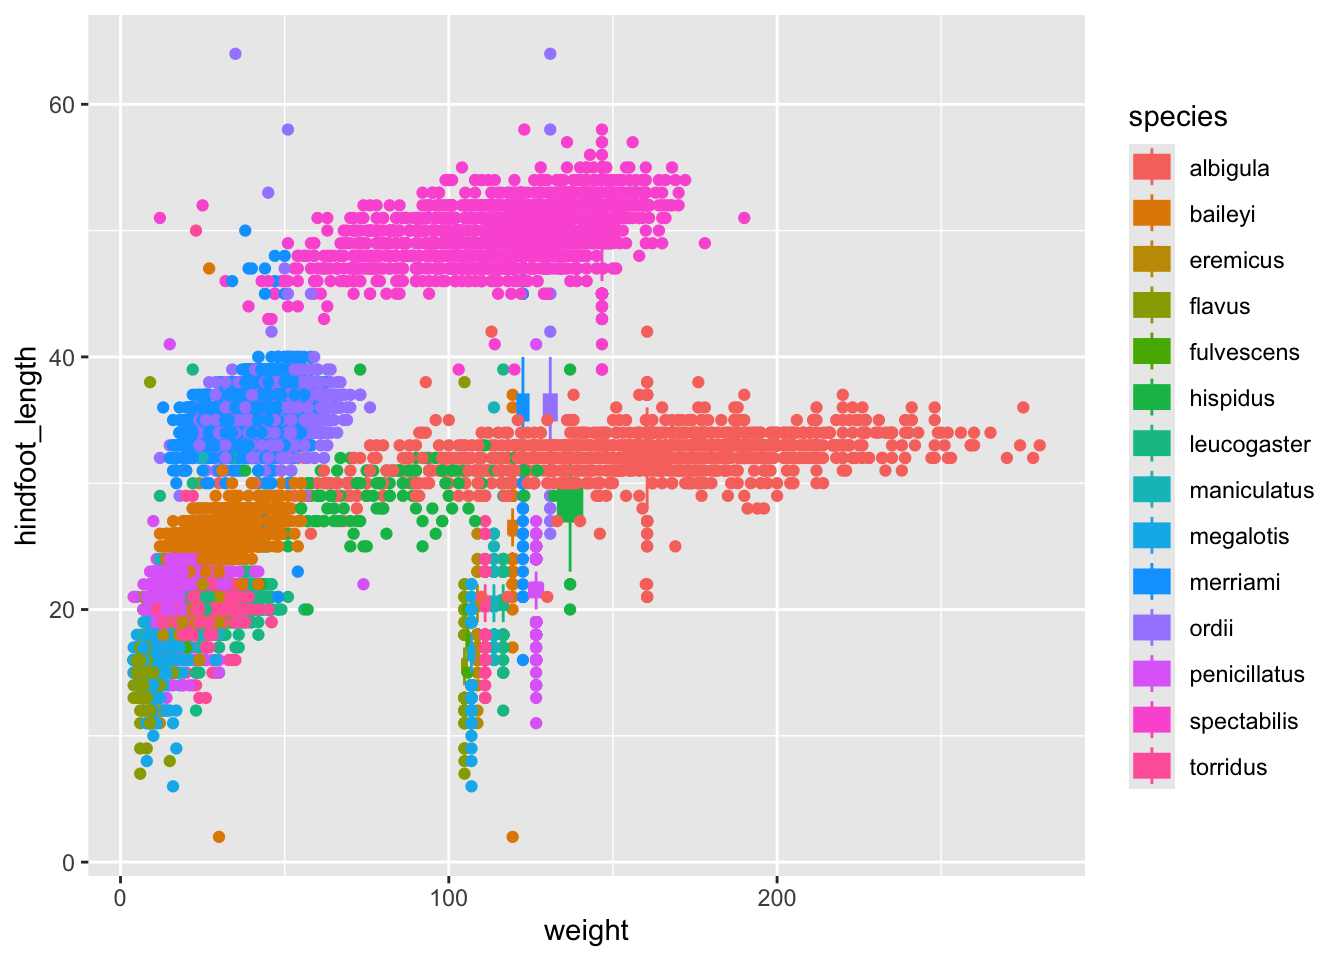
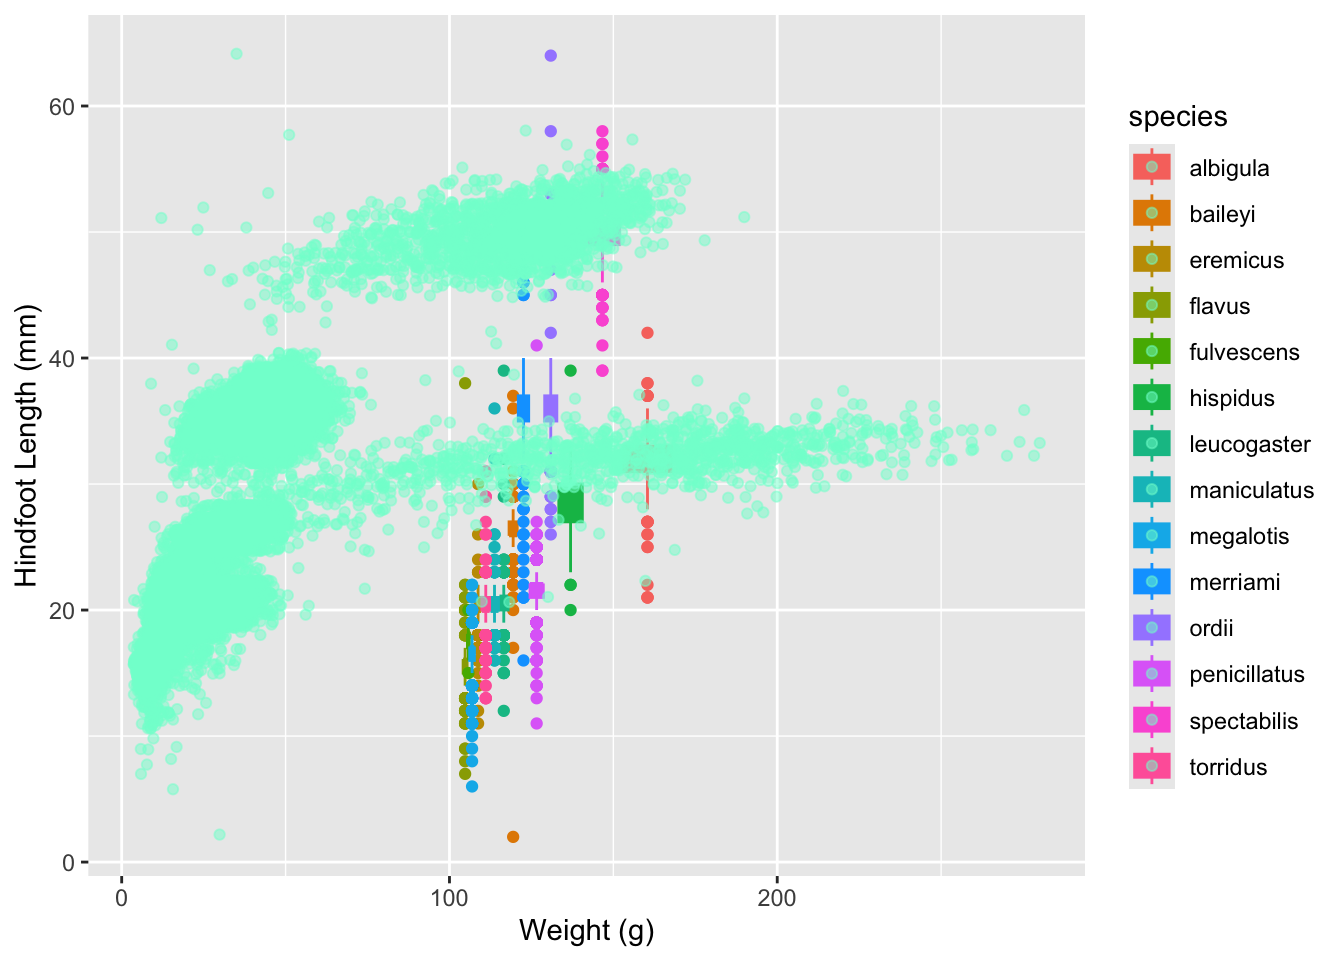
final render

diff --git a/QuinteroE_Lab3.html b/QuinteroE_Lab3.html
@@ -327,7 +327,7 @@ $ taxa            &lt;chr&gt; "Rodent", "Rodent", "Rodent", "Rodent", "Rodent", 
 <span id="cb8-4"><a href="#cb8-4" aria-hidden="true" tabindex="-1"></a>                     <span class="at">color =</span> species, </span>
 <span id="cb8-5"><a href="#cb8-5" aria-hidden="true" tabindex="-1"></a>                     <span class="at">fill =</span> species)) <span class="sc">+</span></span>
 <span id="cb8-6"><a href="#cb8-6" aria-hidden="true" tabindex="-1"></a>  </span>
-<span id="cb8-7"><a href="#cb8-7" aria-hidden="true" tabindex="-1"></a>  <span class="fu">geom_point</span>(<span class="at">alpha =</span> <span class="dv">10</span>) <span class="sc">+</span></span>
+<span id="cb8-7"><a href="#cb8-7" aria-hidden="true" tabindex="-1"></a>  <span class="fu">geom_point</span>(<span class="at">alpha =</span> <span class="dv">10</span>) <span class="sc">+</span> <span class="co">#creates scatterplot</span></span>
 <span id="cb8-8"><a href="#cb8-8" aria-hidden="true" tabindex="-1"></a>  </span>
 <span id="cb8-9"><a href="#cb8-9" aria-hidden="true" tabindex="-1"></a>  <span class="fu">labs</span>(</span>
 <span id="cb8-10"><a href="#cb8-10" aria-hidden="true" tabindex="-1"></a>    <span class="at">title =</span> <span class="st">"Weight and Hindfoot Length Among Rodent Species"</span>,</span>
@@ -365,8 +365,13 @@ $ taxa            &lt;chr&gt; "Rodent", "Rodent", "Rodent", "Rodent", "Rodent", 
 <span id="cb9-4"><a href="#cb9-4" aria-hidden="true" tabindex="-1"></a>                     <span class="at">color =</span> species, </span>
 <span id="cb9-5"><a href="#cb9-5" aria-hidden="true" tabindex="-1"></a>                     <span class="at">fill =</span> species)) <span class="sc">+</span></span>
 <span id="cb9-6"><a href="#cb9-6" aria-hidden="true" tabindex="-1"></a>  </span>
-<span id="cb9-7"><a href="#cb9-7" aria-hidden="true" tabindex="-1"></a>  <span class="fu">geom_boxplot</span>(<span class="at">alpha =</span> <span class="dv">10</span>) <span class="sc">+</span></span>
-<span id="cb9-8"><a href="#cb9-8" aria-hidden="true" tabindex="-1"></a>  <span class="fu">geom_point</span>()</span></code><button title="Copy to Clipboard" class="code-copy-button"><i class="bi"></i></button></pre></div>
+<span id="cb9-7"><a href="#cb9-7" aria-hidden="true" tabindex="-1"></a>  <span class="fu">geom_boxplot</span>() <span class="sc">+</span> <span class="co"># creates boxplot</span></span>
+<span id="cb9-8"><a href="#cb9-8" aria-hidden="true" tabindex="-1"></a>  <span class="fu">geom_jitter</span>(<span class="at">color =</span> <span class="st">"aquamarine"</span>,</span>
+<span id="cb9-9"><a href="#cb9-9" aria-hidden="true" tabindex="-1"></a>              <span class="at">alpha =</span> <span class="fl">0.5</span>) <span class="sc">+</span></span>
+<span id="cb9-10"><a href="#cb9-10" aria-hidden="true" tabindex="-1"></a>  <span class="fu">labs</span>(</span>
+<span id="cb9-11"><a href="#cb9-11" aria-hidden="true" tabindex="-1"></a>    <span class="at">x =</span> <span class="st">"Weight (g)"</span>,</span>
+<span id="cb9-12"><a href="#cb9-12" aria-hidden="true" tabindex="-1"></a>    <span class="at">y =</span> <span class="st">"Hindfoot Length (mm)"</span></span>
+<span id="cb9-13"><a href="#cb9-13" aria-hidden="true" tabindex="-1"></a>    )</span></code><button title="Copy to Clipboard" class="code-copy-button"><i class="bi"></i></button></pre></div>
 <div class="cell-output-display">
 <div>
 <figure class="figure">
@@ -393,6 +398,29 @@ $ taxa            &lt;chr&gt; "Rodent", "Rodent", "Rodent", "Rodent", "Rodent", 
 <!-- Continue to modify the plot you made for question 10! -->
 <p>Some people (and journals) prefer for boxplots to be stacked with a specific orientation! Let’s practice changing the orientation of our boxplots.</p>
 <p><strong>15. Now copy-paste your boxplot code you’ve been adding to above. Flip the orientation of your boxplots. If you created horizontally stacked boxplots, your boxplots should now be stacked vertically. If you had vertically stacked boxplots, you should now stack your boxplots horizontally!</strong></p>
+<div class="cell">
+<div class="sourceCode cell-code" id="cb10"><pre class="sourceCode r code-with-copy"><code class="sourceCode r"><span id="cb10-1"><a href="#cb10-1" aria-hidden="true" tabindex="-1"></a><span class="fu">ggplot</span>(<span class="at">data =</span> surveys,</span>
+<span id="cb10-2"><a href="#cb10-2" aria-hidden="true" tabindex="-1"></a>       <span class="at">mapping =</span> <span class="fu">aes</span>(<span class="at">x =</span> weight, </span>
+<span id="cb10-3"><a href="#cb10-3" aria-hidden="true" tabindex="-1"></a>                     <span class="at">y =</span> hindfoot_length, </span>
+<span id="cb10-4"><a href="#cb10-4" aria-hidden="true" tabindex="-1"></a>                     <span class="at">color =</span> species, </span>
+<span id="cb10-5"><a href="#cb10-5" aria-hidden="true" tabindex="-1"></a>                     <span class="at">fill =</span> species)) <span class="sc">+</span></span>
+<span id="cb10-6"><a href="#cb10-6" aria-hidden="true" tabindex="-1"></a>  </span>
+<span id="cb10-7"><a href="#cb10-7" aria-hidden="true" tabindex="-1"></a>  <span class="fu">geom_boxplot</span>() <span class="sc">+</span> <span class="co"># creates boxplot</span></span>
+<span id="cb10-8"><a href="#cb10-8" aria-hidden="true" tabindex="-1"></a>  <span class="fu">geom_jitter</span>(<span class="at">color =</span> <span class="st">"aquamarine"</span>, <span class="co"># adds noise to variable point</span></span>
+<span id="cb10-9"><a href="#cb10-9" aria-hidden="true" tabindex="-1"></a>              <span class="at">alpha =</span> <span class="fl">0.5</span>) <span class="sc">+</span></span>
+<span id="cb10-10"><a href="#cb10-10" aria-hidden="true" tabindex="-1"></a>  <span class="fu">coord_flip</span>() <span class="sc">+</span> <span class="co"># flips x and y coordinates</span></span>
+<span id="cb10-11"><a href="#cb10-11" aria-hidden="true" tabindex="-1"></a>  <span class="fu">labs</span>(</span>
+<span id="cb10-12"><a href="#cb10-12" aria-hidden="true" tabindex="-1"></a>    <span class="at">x =</span> <span class="st">"Weight (g)"</span>,</span>
+<span id="cb10-13"><a href="#cb10-13" aria-hidden="true" tabindex="-1"></a>    <span class="at">y =</span> <span class="st">"Hindfoot Length (mm)"</span></span>
+<span id="cb10-14"><a href="#cb10-14" aria-hidden="true" tabindex="-1"></a>    )</span></code><button title="Copy to Clipboard" class="code-copy-button"><i class="bi"></i></button></pre></div>
+<div class="cell-output-display">
+<div>
+<figure class="figure">
+<p><img src="QuinteroE_Lab3_files/figure-html/rotated-boxplot-1.png" class="img-fluid figure-img" width="672"></p>
+</figure>
+</div>
+</div>
+</div>
 <p>Notice how vertically stacked boxplots make the species labels more readable than horizontally stacked boxplots (even when the axis labels are rotated). This is good practice!</p>
 </section>
 </section>
